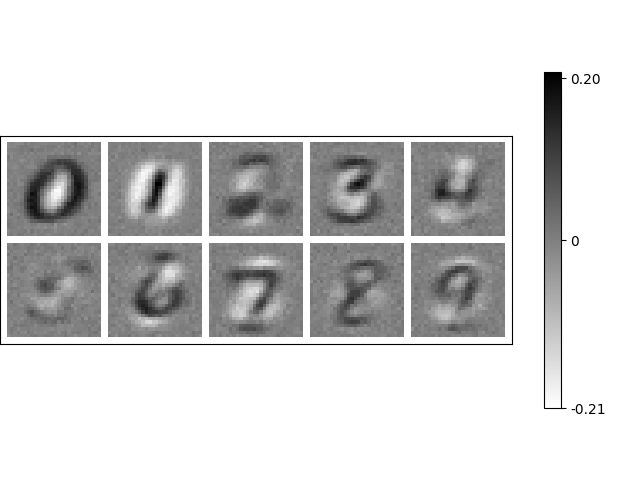
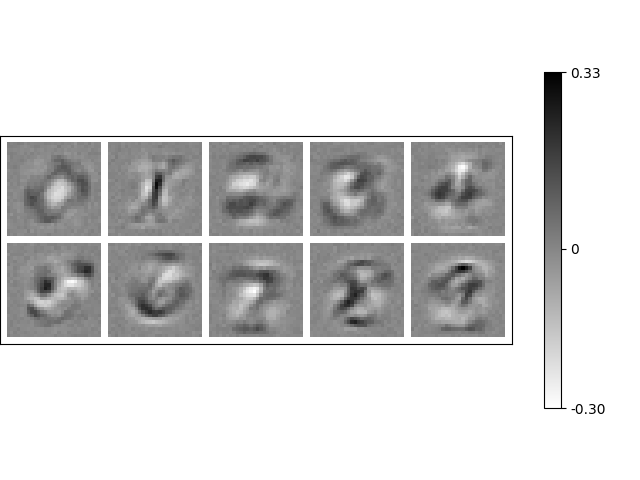
corrected RMD_data and experiment

diff --git a/hyperoptimizer.py b/hyperoptimizer.py
@@ -1,6 +1,5 @@
 import autograd.numpy as np
 from autograd import grad
-from fractions import Fraction
 from collections import deque
 from time import time
 from neuralNet import VectorParser, fill_parser
@@ -317,11 +316,11 @@ def data_RMD(loss, f , T, batches, w0, v0, gammas, alphas,  meta):
     V = ExactRep(v0)
 
     iter_per_epoch = len(batches)
-    num_epochs = int(T/len(batches)) + 1
+    #num_epochs = int(T/len(batches)) + 1
+    num_epochs = T//len(batches) + 1
     iters = list(zip(range(T), alphas, gammas, batches*num_epochs))
-    
-    learning_curve   = []
-    validation_curve = []
+    #learning_curve   = []
+    #validation_curve = []
     L_grad      = grad(loss)    # Gradient wrt parameters.
     M_grad      = grad(f)       # Gradient wrt parameters.
     L_meta_grad = grad(loss, 1) # Gradient wrt metaparameters.
@@ -335,32 +334,28 @@ def data_RMD(loss, f , T, batches, w0, v0, gammas, alphas,  meta):
     #forward
     for i, alpha, gamma, batch in iters:
         print(f'forward iteration {i}')
-        g = L_grad(W.val, meta, batch)
         V.mul(gamma)
+        g = L_grad(W.val, meta, batch)
         V.sub((1-gamma)*g)
         W.add(alpha*V.val)        
         learning_curve.append(loss(W.val, meta, batches.all_idxs))
-        validation_curve.append(loss(W.val, meta, batches.all_idxs))
+        #validation_curve.append(loss(W.val, meta, batches.all_idxs))
 
+    final_params   = W.val
+    dL_w = L_grad(W.val, meta, batches.all_idxs)
+    dM_w = M_grad(W.val, meta)
     final_loss     = loss(W.val, meta, batches.all_idxs)
     final_val_loss = f(W.val, meta)
-    final_params   = W.val
-    
-    dL_w = L_grad(W.val, meta, batches.all_idxs)
     dL_v = np.zeros(dL_w.shape)
-
-    dM_w = M_grad(W.val, meta)
-    dM_v = np.zeros(dL_w.shape)
-
+    dM_v = np.zeros(dM_w.shape)
     dL_data = L_meta_grad(W.val, meta, batches.all_idxs)
     dM_data = M_meta_grad(W.val, meta)    #forse va inizializzata matrice di zeri
-    dM_data = np.zeros_like(dM_data)
-
+    
     for i, alpha, gamma, batch in iters[::-1]:
         print(f'backprop step {i}')
 
-        dL_v += alpha * dL_w
-        dM_v += alpha * dM_w
+        dL_v +=  dL_w * alpha
+        dM_v +=  dM_w * alpha
         
         #exact gradient descent reversion
         W.sub(alpha * V.val)
@@ -370,17 +365,15 @@ def data_RMD(loss, f , T, batches, w0, v0, gammas, alphas,  meta):
         
         dL_w -= (1-gamma)*L_hvp(W.val, dL_v, batch)
         dM_w -= (1-gamma)*L_hvp(W.val, dM_v, batch)
-
-
         dL_data -= (1-gamma)*L_hvp_meta(W.val, meta, dL_v, batch)
-        dM_data  = (1-gamma)*L_hvp_meta(W.val, meta, dM_v, batch)
+        dM_data -= (1-gamma)*L_hvp_meta(W.val, meta, dM_v, batch)
         dL_v *= gamma
         dM_v *= gamma
 
     assert np.all(ExactRep(w0).val == W.val)
     return {'w_final':final_params,
             'learning_curve': learning_curve,
-            'validation_curve': validation_curve,
+            #'validation_curve': validation_curve,
             'final_loss':final_loss,
             'final_val_loss':final_val_loss,
             'param': final_params,

diff --git a/neuralNet.py b/neuralNet.py
@@ -148,7 +148,7 @@ def make_nn_funs(layer_sizes):
         return cur_units
 
     def loss(W_vect, X, T, L2_reg=0.0):
-        # TODO: consider treating L2_reg as a matrix
+        
         log_prior = -np.dot(W_vect * L2_reg, W_vect)
         log_lik = np.sum(predictions(W_vect, X) * T) / X.shape[0]
         return - log_prior - log_lik
@@ -210,24 +210,24 @@ def make_nn_funs(layer_sizes):
 import matplotlib.pyplot as plt
 import matplotlib
 
-def plot_images(images, ax, ims_per_row=5, padding=5, digit_dimensions=(28,28),
-                cmap=matplotlib.cm.binary, vmin=None):
+def plot_images(images, ax, ims_per_row = 5, padding = 5, digit_dimensions = (28,28),
+                cmap = matplotlib.cm.binary, vmin = None):
 
-    """iamges should be a (N_images x pixels) matrix."""
+    """images should be a (N_images x pixels) matrix."""
     N_images = images.shape[0]
-    N_rows = int(np.ceil(float(N_images) / ims_per_row))
+    N_rows   = int(np.ceil(float(N_images) / ims_per_row))
     pad_value = np.min(images.ravel())
     concat_images = np.full(((digit_dimensions[0] + padding) * N_rows + padding,
                             (digit_dimensions[0] + padding) * ims_per_row + padding), pad_value)
     for i in range(N_images):
-        cur_image = -np.reshape(images[i, :], digit_dimensions)
+        cur_image = np.reshape(images[i, :], digit_dimensions)
         row_ix = i // ims_per_row  # Integer division.
         col_ix = i % ims_per_row
         row_start = padding + (padding + digit_dimensions[0])*row_ix
         col_start = padding + (padding + digit_dimensions[0])*col_ix
         concat_images[row_start: row_start + digit_dimensions[0],
                       col_start: col_start + digit_dimensions[0]] = cur_image
-    cax = ax.matshow(concat_images, cmap=cmap, vmin=vmin)
+    cax = ax.matshow(concat_images, cmap = cmap, vmin = vmin)
     plt.xticks(np.array([]))
     plt.yticks(np.array([]))
     return cax

diff --git a/training_data_cp.py b/training_data_cp.py
@@ -76,6 +76,13 @@ def test_loss_fun(w):                         # To measure actual performance.
 log_alphas  = np.full(N_iters, log_alpha_0)
 gammas      = np.full(N_iters, gamma_0)
 
+
+def hypergrad_fake_cp():
+    pass
+
+
+
+
 output = []
 for i in range(N_meta_iter):
     print(f'--------------META ITERATION {i} ------------------------------')
@@ -84,6 +91,9 @@ for i in range(N_meta_iter):
     w0 = npr.randn(N_weights) * np.exp(log_param_scale)
 
     results = data_RMD(indexed_loss_fun, meta_loss_fun, N_iters, batch_idxs, 
+                       w0, v0, gammas, np.exp(log_alphas), metas)
+
+    results = hypergrad_fake_cp(indexed_loss_fun, meta_loss_fun, N_iters, batch_idxs, 
                        w0, v0, gammas, np.exp(log_alphas), metas)
 
     learning_curve = results['learning_curve']
@@ -116,4 +126,3 @@ cbar.ax.set_yticklabels(['{:2.2f}'.format(immin), '0', '{:2.2f}'.format(immax)])
 
 plt.savefig('/home/marco/Documenti/Progetto_DL/fakeData/fake_data.png')
 plt.close()
-
